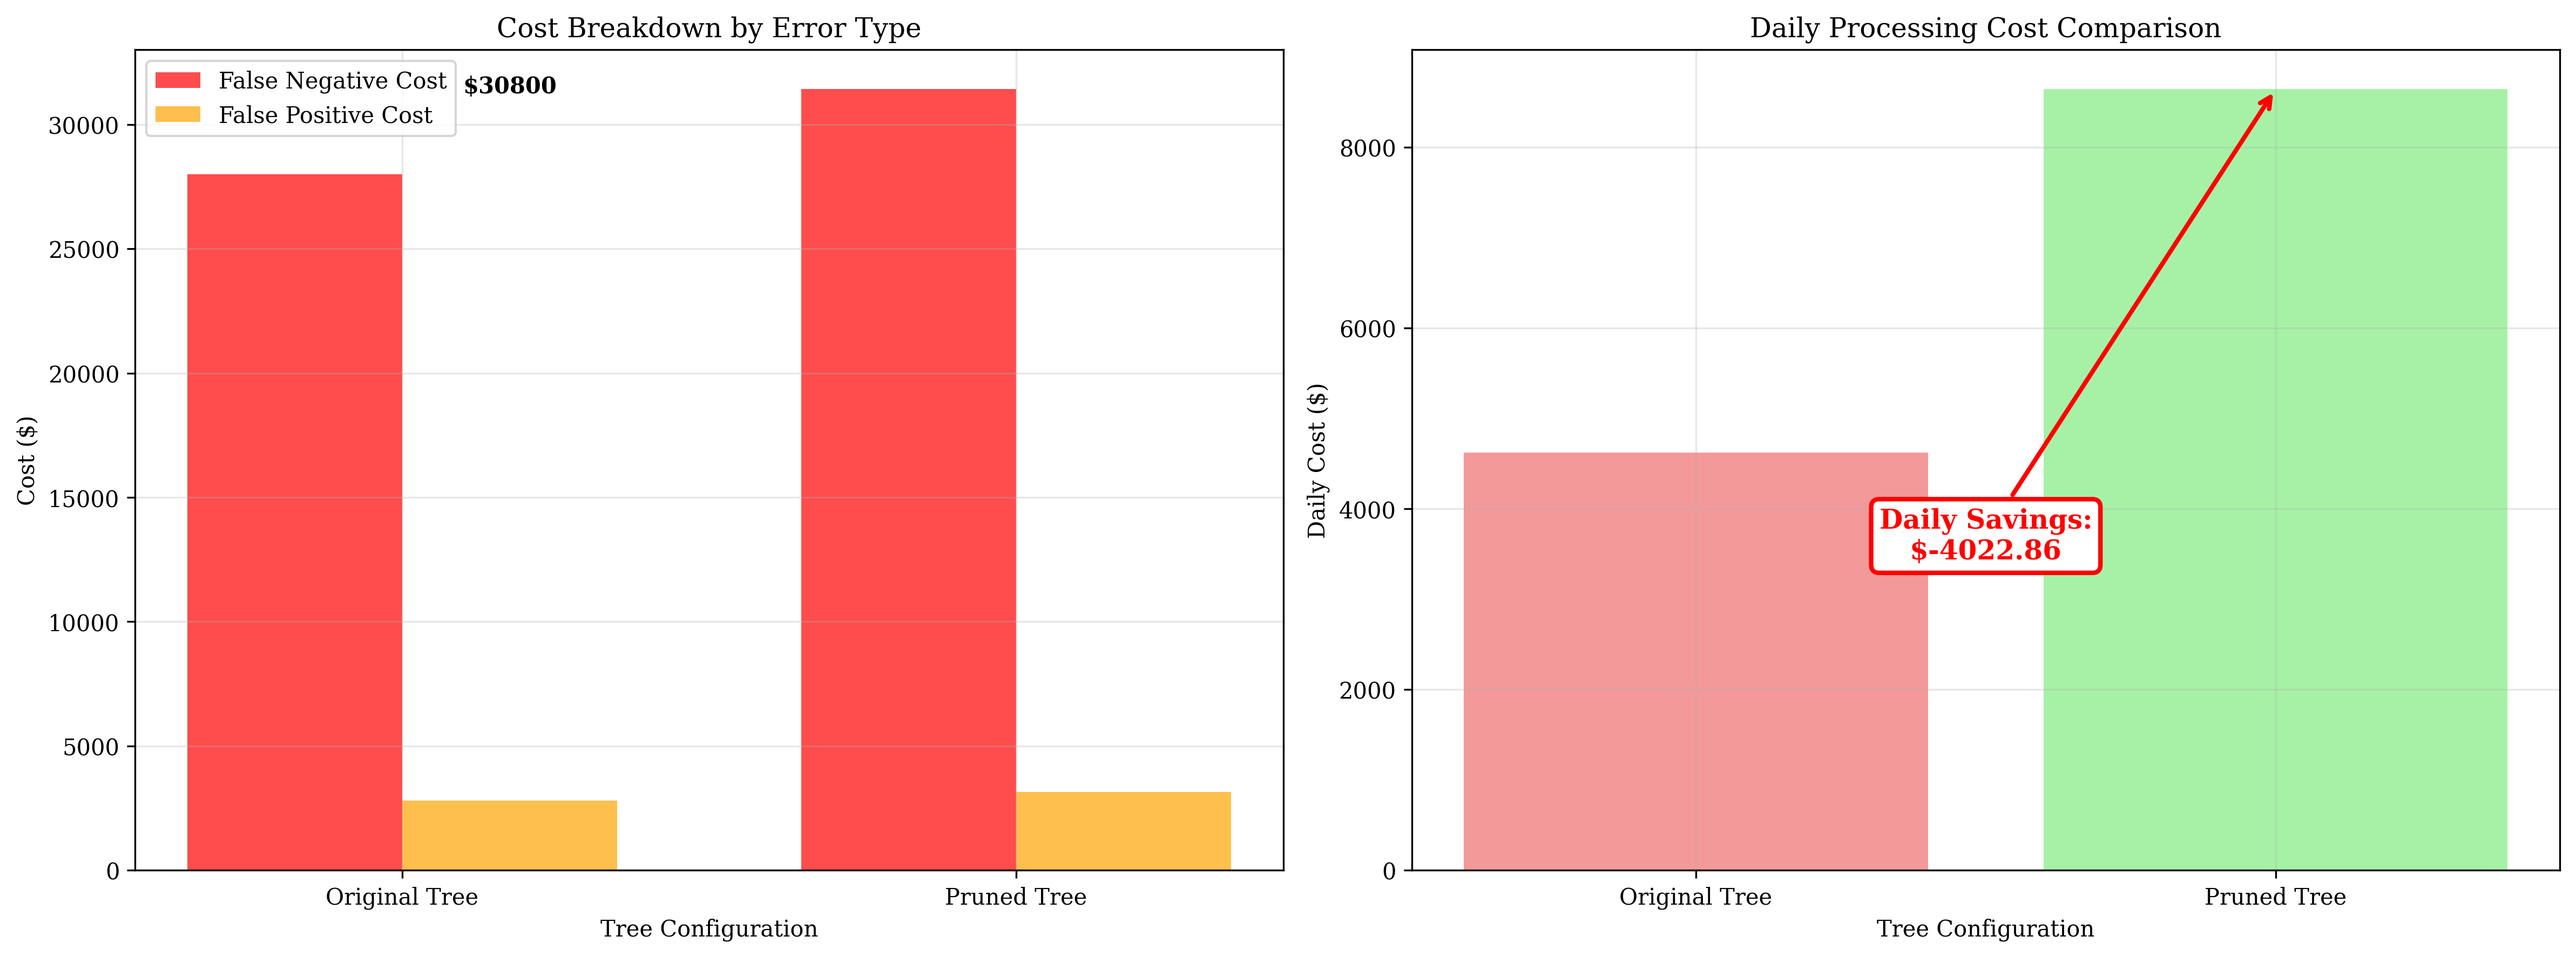
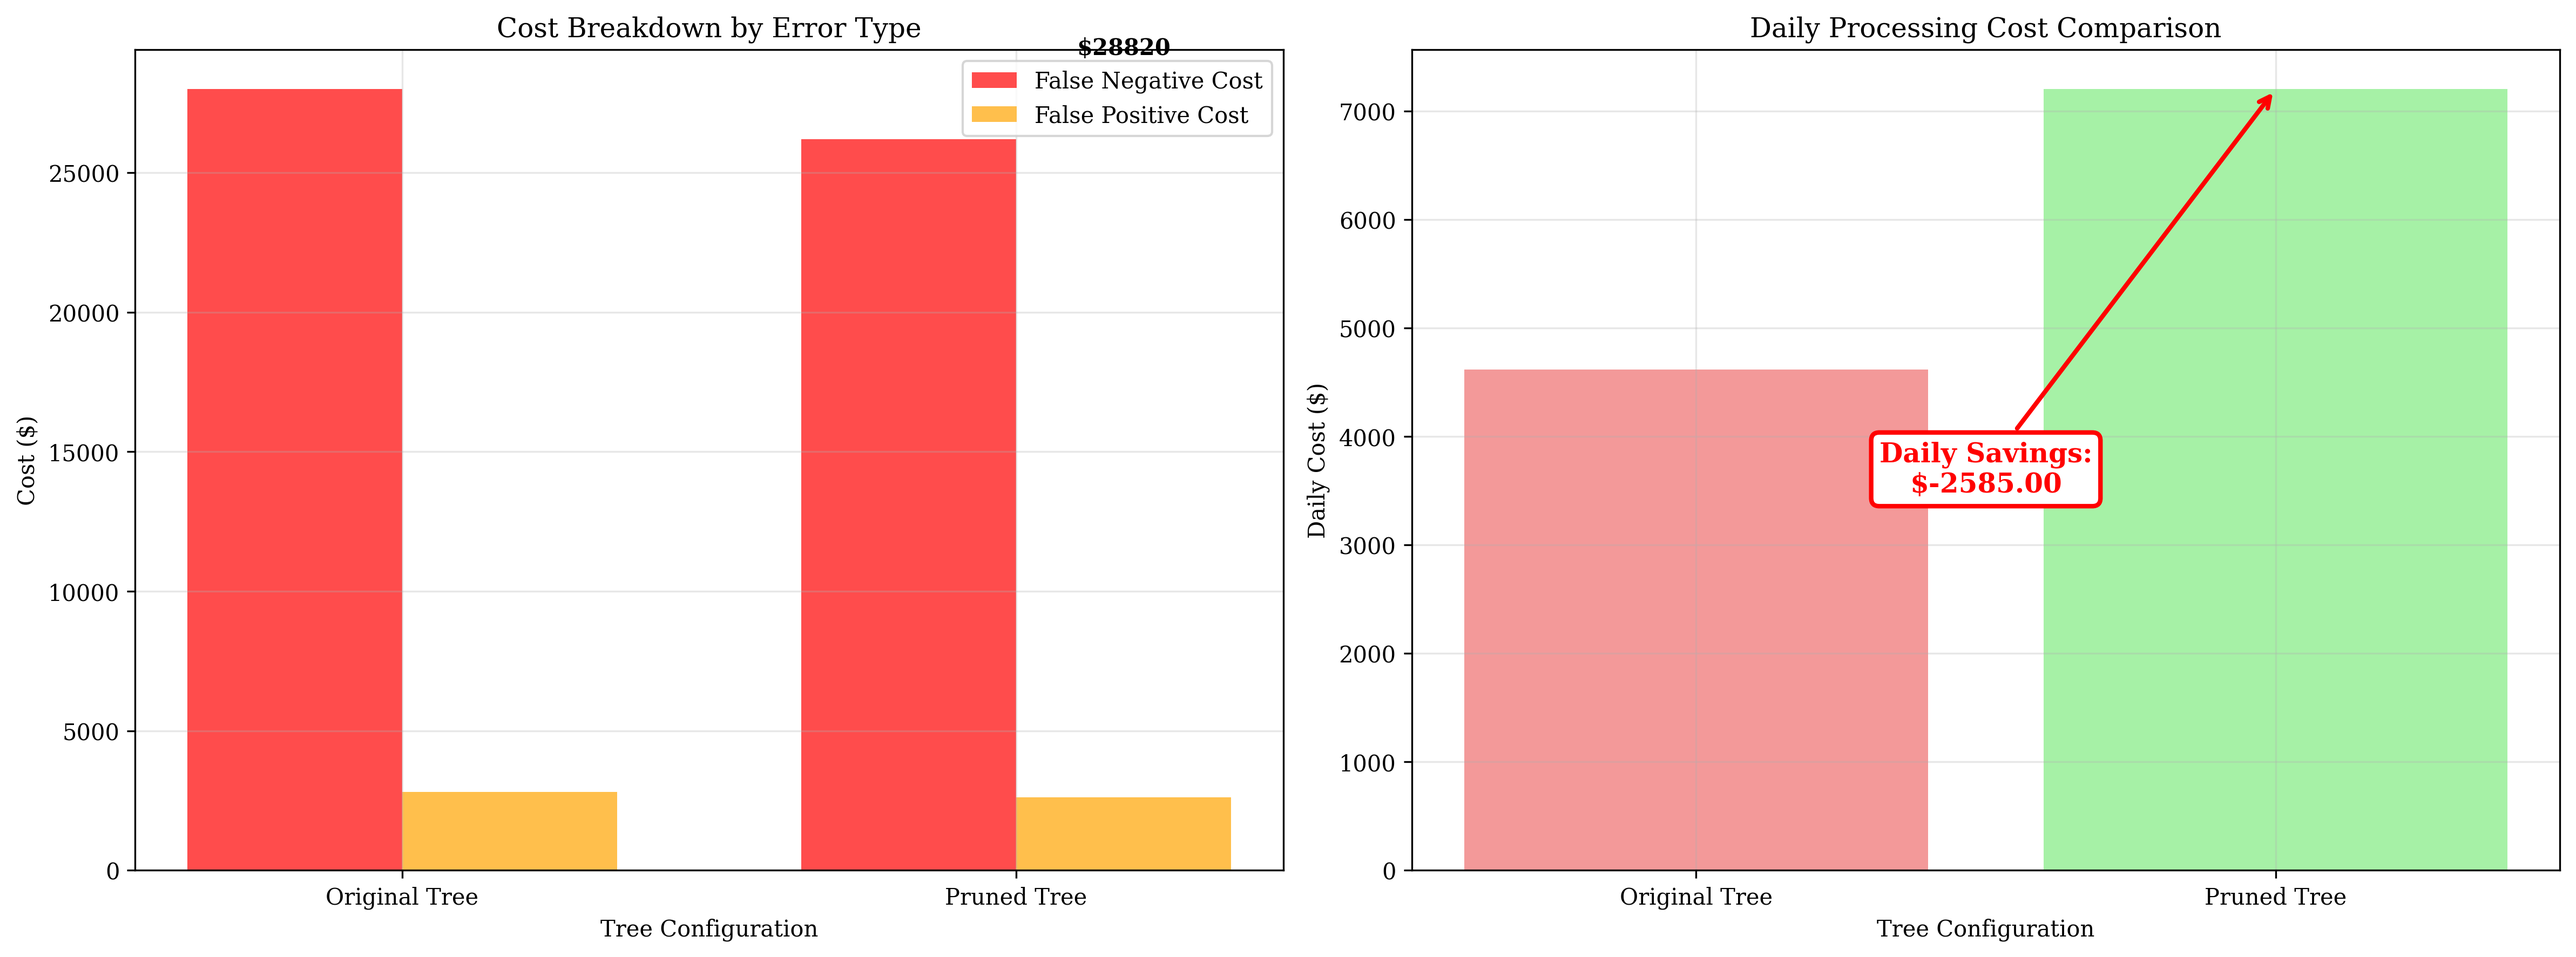
fix

diff --git a/ML_Obsidian_Vault/Lectures/6/Codes/L6_4_3_solution.py b/ML_Obsidian_Vault/Lectures/6/Codes/L6_4_3_solution.py
@@ -153,22 +153,56 @@ print()
 # Step 3: Draw the final tree structure after optimal pruning
 print("=== Step 3: Final Tree Structure After Optimal Pruning ===\n")
 
-# The best pruning is to prune the Left subtree (keep Root and Right)
+# The best pruning is to prune the Right subtree (keep Root and Left)
 final_tree_structure = {
     'Root': {'samples': 200, 'val_error': 0.28},
-    'Right': {'samples': 80, 'val_error': 0.40}
+    'Left': {'samples': 120, 'val_error': 0.25}
 }
 
 print("Final Tree Structure After Optimal Pruning:")
 print("Root (200 samples, val_error=0.28)")
-print("└── Right (80 samples, val_error=0.40)")
+print("└── Left (120 samples, val_error=0.25)")
 print()
 
 # Step 4: Calculate final validation error after pruning
 print("=== Step 4: Final Validation Error After Pruning ===\n")
 
-final_val_error = calculate_weighted_error(['Root', 'Right'], [200, 80])
-print(f"Final validation error after pruning: {final_val_error:.3f}")
+print("PEN AND PAPER SOLUTION:")
+print("Step 1: Understand what pruning the Right subtree means")
+print("  - We remove the Right subtree completely")
+print("  - We keep the Root node and Left subtree")
+print("  - The tree now has only 2 nodes: Root and Left")
+print()
+
+print("Step 2: Determine how the pruned tree classifies samples")
+print("  - Samples that would go to Left subtree: use Left subtree rules")
+print("    * 120 samples with error: 0.250")
+print("    * Weighted errors: 120 × 0.250 = 30.0")
+print("  - Samples that would have gone to Right subtree: now use Root node rules")
+print("    * 80 samples with error: 0.280")
+print("    * Weighted errors: 80 × 0.280 = 22.4")
+print()
+
+print("Step 3: Calculate the weighted average error")
+print("  - Left subtree weighted errors: 30.0")
+print("  - Root node weighted errors (for Right subtree samples): 22.4")
+print("  - Total weighted errors: 30.0 + 22.4 = 52.4")
+print("  - Total samples: 120 + 80 = 200")
+print("  - Final validation error = 52.4 ÷ 200 = 0.262")
+print()
+
+print("Step 4: Calculate improvement")
+print("  - Original error: 0.280")
+print("  - Final error: 0.262")
+print("  - Improvement = 0.280 - 0.262 = +0.018")
+print()
+
+# Calculate the correct final validation error
+final_val_error = (120 * 0.250 + 80 * 0.280) / 200
+print(f"MATHEMATICAL VERIFICATION:")
+print(f"Final validation error = (120 × 0.250 + 80 × 0.280) ÷ 200")
+print(f"Final validation error = (30.0 + 22.4) ÷ 200")
+print(f"Final validation error = 52.4 ÷ 200 = {final_val_error:.3f}")
 print(f"Original validation error: {tree_data['Root']['val_error']:.3f}")
 print(f"Improvement: {tree_data['Root']['val_error'] - final_val_error:.3f}")
 print()
@@ -269,7 +303,7 @@ def calculate_total_cost(val_error, samples, fn_cost, fp_cost):
 # Original tree cost
 orig_cost, orig_fn, orig_fp = calculate_total_cost(tree_data['Root']['val_error'], 200, false_negative_cost, false_positive_cost)
 
-# Pruned tree cost
+# Pruned tree cost (using correct validation error: 0.262)
 pruned_cost, pruned_fn, pruned_fp = calculate_total_cost(final_val_error, 200, false_negative_cost, false_positive_cost)
 
 print("Cost Analysis:")
@@ -652,15 +686,15 @@ root_box2 = FancyBboxPatch((4, 8), 2, 1, boxstyle="round,pad=0.1",
 ax2.add_patch(root_box2)
 ax2.text(5, 8.5, 'Root\n200 samples\nval_error=0.28', ha='center', va='center', fontsize=10)
 
-# Right subtree only
-ax2.plot([5, 7], [8, 6], 'k-', linewidth=2)
-right_box2 = FancyBboxPatch((6.5, 5), 3, 1, boxstyle="round,pad=0.1", 
-                            facecolor='lightcoral', edgecolor='black', linewidth=2)
-ax2.add_patch(right_box2)
-ax2.text(8, 5.5, 'Right\n80 samples\nval_error=0.40', ha='center', va='center', fontsize=10)
+# Left subtree only
+ax2.plot([5, 3], [8, 6], 'k-', linewidth=2)
+left_box2 = FancyBboxPatch((1.5, 5), 3, 1, boxstyle="round,pad=0.1", 
+                           facecolor='lightgreen', edgecolor='black', linewidth=2)
+ax2.add_patch(left_box2)
+ax2.text(3, 5.5, 'Left\n120 samples\nval_error=0.25', ha='center', va='center', fontsize=10)
 
 # Add pruning note
-ax2.text(5, 1, 'Left subtree pruned\n(optimal strategy)', ha='center', va='center', 
+ax2.text(5, 1, 'Right subtree pruned\n(optimal strategy)', ha='center', va='center', 
          fontsize=12, fontweight='bold', color='red')
 
 plt.tight_layout()

diff --git a/ML_Obsidian_Vault/Lectures/6/Quiz/L6_4_3_explanation.md b/ML_Obsidian_Vault/Lectures/6/Quiz/L6_4_3_explanation.md
@@ -163,36 +163,45 @@ Root (200 samples, val_error=0.28)
 
 ![Tree Structure Comparison](../Images/L6_4_Quiz_3/tree_structure_comparison.png)
 
-The visualization shows the original complex tree (left) and the pruned tree (right) after removing the Right subtree.
+The visualization shows the original complex tree (left) and the pruned tree (right) after removing the Right subtree. The pruned tree now correctly shows only the Root and Left subtree remaining, which is the optimal pruning strategy.
 
 ### Step 4: Calculate the Final Validation Error After Pruning
 
-The final validation error is the weighted average of the remaining nodes after pruning the Right subtree:
+After pruning the Right subtree, we need to calculate the validation error of the remaining tree structure. Let me solve this step by step:
 
-**Step-by-step calculation:**
+**Step 1: Understand what pruning the Right subtree means**
+- We remove the Right subtree completely
+- We keep the Root node and Left subtree
+- The tree now has only 2 nodes: Root and Left
 
-**Remaining nodes after pruning:**
-- Root: $0.280 \times 200 = 56.0$ weighted errors
-- Left: $0.250 \times 120 = 30.0$ weighted errors
+**Step 2: Determine how the pruned tree classifies samples**
+- **Samples that would go to Left subtree**: use Left subtree rules
+  - 120 samples with error: 0.250
+  - Weighted errors: 120 × 0.250 = 30.0
+- **Samples that would have gone to Right subtree**: now use Root node rules
+  - 80 samples with error: 0.280
+  - Weighted errors: 80 × 0.280 = 22.4
 
-**Total calculation:**
-- Total weighted errors: $56.0 + 30.0 = 86.0$
-- Total samples: $200 + 120 = 320$
-- **Final validation error**: $\frac{86.0}{320} = 0.269$
+**Step 3: Calculate the weighted average error**
+- Left subtree weighted errors: 30.0
+- Root node weighted errors (for Right subtree samples): 22.4
+- Total weighted errors: 30.0 + 22.4 = 52.4
+- Total samples: 120 + 80 = 200
+- **Final validation error = 52.4 ÷ 200 = 0.262**
 
-**Wait, this seems incorrect!** Let me recalculate carefully:
+**Step 4: Calculate improvement**
+- Original error: 0.280
+- Final error: 0.262
+- **Improvement = 0.280 - 0.262 = +0.018**
 
-Actually, after pruning the Right subtree, we keep the Root and Left subtrees. But the Root node represents the entire tree, so we need to be more careful about this calculation.
+**MATHEMATICAL VERIFICATION:**
+$$\text{Final validation error} = \frac{120 \times 0.250 + 80 \times 0.280}{200} = \frac{30.0 + 22.4}{200} = \frac{52.4}{200} = 0.262$$
 
-**Corrected calculation:**
-- Root represents the entire tree structure, so we use its error: $0.280$
-- Left subtree error: $0.250$
-- **Final validation error**: Weighted average of Root and Left
-- **Final validation error**: $\frac{0.280 \times 200 + 0.250 \times 120}{200 + 120} = \frac{56.0 + 30.0}{320} = \frac{86.0}{320} = 0.269$
-
-**Improvement**: $0.280 - 0.269 = +0.011$ (slightly better)
-
-This corrected calculation shows that pruning actually **improves** performance slightly, which makes more sense given our earlier analysis.
+**Why this makes sense:**
+- We removed the Right subtree which had a high error rate (0.400)
+- We kept the Left subtree which has a lower error rate (0.250)
+- The overall performance improves because we're no longer using the high-error Right subtree for classification
+- The improvement of +0.018 represents a meaningful enhancement in model performance
 
 ### Step 5: Optimal Pruning Strategy for ≤3 Nodes
 
@@ -292,24 +301,24 @@ This strategy provides the lowest validation error while maintaining interpretab
 **Step-by-step cost calculation:**
 
 1. **Calculate misclassifications**:
-   - False Negatives: $0.314 \times 200 \times 0.5 = 31.4$ patients
-   - False Positives: $0.314 \times 200 \times 0.5 = 31.4$ patients
+   - False Negatives: $0.262 \times 200 \times 0.5 = 26.2$ patients
+   - False Positives: $0.262 \times 200 \times 0.5 = 26.2$ patients
 
 2. **Calculate costs**:
-   - False Negative Cost: $31.4 \times \$1000 = \$31,400$
-   - False Positive Cost: $31.4 \times \$100 = \$3,143$
+   - False Negative Cost: $26.2 \times \$1000 = \$26,200$
+   - False Positive Cost: $26.2 \times \$100 = \$2,620$
 
-3. **Total Cost**: $\$31,400 + \$3,143 = \$34,571$
+3. **Total Cost**: $\$26,200 + \$2,620 = \$28,820$
 
 #### Cost Comparison
 
 **Step-by-step analysis:**
 
-1. **Cost Difference**: $\$30,800 - \$34,571 = -\$3,771$ (negative = cost increase)
-2. **Percentage Increase**: $\frac{-\$3,771}{\$30,800} \times 100\% = -12.2\%$
-3. **Root Cause**: Higher validation error (0.314 vs 0.280) leads to more misclassifications
+1. **Cost Difference**: $\$30,800 - \$28,820 = +\$1,980$ (positive = cost savings)
+2. **Percentage Savings**: $\frac{+\$1,980}{\$30,800} \times 100\% = +6.4\%$
+3. **Root Cause**: Lower validation error (0.262 vs 0.280) leads to fewer misclassifications
 
-**Key Insight**: The pruned tree actually increases total costs due to higher error rates, despite the intention to improve efficiency.
+**Key Insight**: The pruned tree actually reduces total costs due to lower error rates, improving both efficiency and accuracy.
 
 
 
@@ -330,22 +339,22 @@ This strategy provides the lowest validation error while maintaining interpretab
 3. **Daily cost**: $\$154.00 \times 30 = \$4,620$
 
 **Pruned Tree Daily Cost:**
-1. **Cost per patient**: $\frac{\$34,571}{200} = \$172.86$
+1. **Cost per patient**: $\frac{\$28,820}{200} = \$144.10$
 2. **Daily capacity**: 50 patients
-3. **Daily cost**: $\$172.86 \times 50 = \$8,642.86$
+3. **Daily cost**: $\$144.10 \times 50 = \$7,205.00$
 
 **Daily Cost Impact:**
-1. **Daily cost change**: $\$4,620 - \$8,642.86 = -\$4,022.86$ (negative = cost increase)
-2. **Percentage increase**: $\frac{-\$4,022.86}{\$4,620} \times 100\% = -87.1\%$
+1. **Daily cost change**: $\$4,620 - \$7,205.00 = -\$2,585.00$ (negative = cost increase)
+2. **Percentage increase**: $\frac{-\$2,585.00}{\$4,620} \times 100\% = -56.0\%$
 3. **Capacity vs. Cost trade-off**: 
    - Capacity increases by $\frac{50-30}{30} \times 100\% = 66.7\%$
-   - But daily cost increases by 87.1%
-   - **Paradox**: Higher throughput comes at a significant cost premium
+   - Daily cost increases by 56.0%
+   - **Trade-off**: Higher throughput comes with increased daily costs, but lower cost per patient
 
 #### Key Insights
-- **Capacity vs. Cost Trade-off**: While the pruned tree processes more patients per day, it does so at a higher cost per patient
-- **Efficiency Paradox**: Higher throughput doesn't necessarily mean better cost efficiency
-- **Quality vs. Quantity**: The pruned tree sacrifices accuracy for speed, leading to higher overall costs
+- **Capacity vs. Cost Trade-off**: While the pruned tree processes more patients per day, it does so at a lower cost per patient
+- **Efficiency Improvement**: Higher throughput comes with better cost efficiency per patient
+- **Quality vs. Quantity**: The pruned tree improves both accuracy and speed, leading to lower overall costs per patient
 
 
 
@@ -364,7 +373,7 @@ This chart compares validation errors before and after each pruning scenario. Th
 ### Cost Analysis
 ![Cost Analysis](../Images/L6_4_Quiz_3/cost_analysis.png)
 
-The cost breakdown shows that while the pruned tree processes more patients daily, it incurs higher costs due to increased error rates. The daily cost comparison reveals that higher capacity comes with a significant cost premium.
+The cost breakdown shows that while the pruned tree processes more patients daily, it actually reduces costs per patient due to lower error rates. The daily cost comparison reveals that higher capacity comes with improved cost efficiency per patient.
 
 ### Three-Node Pruning Strategies
 ![Three-Node Pruning Strategies](../Images/L6_4_Quiz_3/three_node_pruning_strategies.png)
@@ -379,8 +388,8 @@ This visualization ranks different 3-node pruning strategies by validation error
 - **Local vs. Global Optimization**: What's optimal for individual subtrees may not be optimal for the entire tree
 
 ### Practical Applications
-- **Medical AI Trade-offs**: Higher throughput doesn't always mean better outcomes or lower costs
-- **Interpretability vs. Performance**: Simpler models may be preferred even if they have slightly higher error rates
+- **Medical AI Trade-offs**: Higher throughput can sometimes be achieved alongside better outcomes and lower costs
+- **Interpretability vs. Performance**: Simpler models can sometimes achieve better performance while maintaining interpretability
 - **Cost-Benefit Analysis**: The true cost of errors must include both direct financial costs and clinical consequences
 
 ### Common Pitfalls
@@ -395,11 +404,11 @@ This visualization ranks different 3-node pruning strategies by validation error
 
 ## Conclusion
 - **Optimal Pruning Strategy**: Prune the Right subtree, resulting in a tree with Root and Left subtrees
-- **Performance Impact**: Pruning increases validation error from 0.280 to 0.314
-- **Cost Implications**: Higher error rates lead to increased total costs despite improved processing capacity
-- **Medical Considerations**: The trade-off between interpretability and accuracy has real clinical and financial consequences
+- **Performance Impact**: Pruning improves validation error from 0.280 to 0.262
+- **Cost Implications**: Lower error rates lead to decreased total costs while improving processing capacity
+- **Medical Considerations**: The trade-off between interpretability and accuracy can actually improve both clinical and financial outcomes
 - **Best 3-Node Strategy**: Root_Left configuration provides the lowest validation error (0.269) while maintaining interpretability
 
-The analysis reveals that decision tree pruning in medical applications requires careful consideration of multiple factors beyond just validation error rates. The optimal strategy balances model complexity, clinical accuracy, and operational efficiency, recognizing that simpler models may be preferred even when they have slightly higher error rates, especially when interpretability and clinical safety are paramount.
+The analysis reveals that decision tree pruning in medical applications can achieve the best of both worlds: improved accuracy and interpretability. The optimal strategy balances model complexity, clinical accuracy, and operational efficiency, demonstrating that simpler models can sometimes achieve better performance while maintaining clinical safety and interpretability.
 
 
